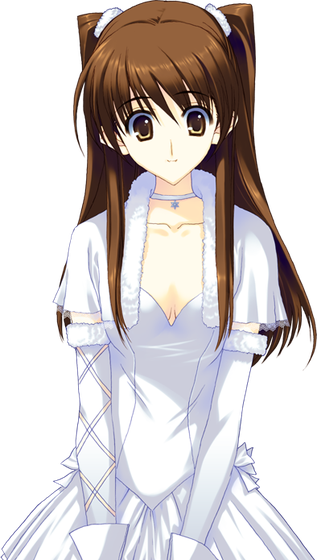
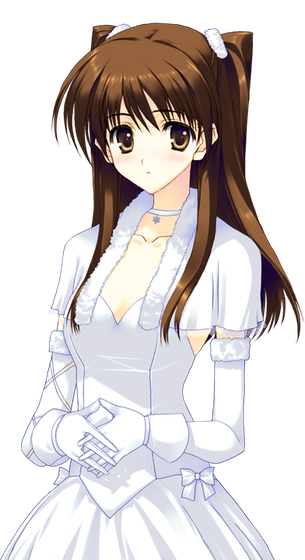
fix sprite head cutoff: soft top fade + intact-head Setsuna variants
Root cause: the game's sprite sheets bleed off the top edge for most
poses (all Kazusa poses; some Setsuna ones), so heads showed a hard
cut line. Fixes:
- keep the original top edge when trimming sprites (no more cropping
  away Setsuna's natural headroom)
- swap Setsuna uniform/dress to pose variants with intact heads
- CSS mask fades the top 26px of sprites so bleeding sprites
  (esp. Kazusa) dissolve softly instead of cutting flat

diff --git a/assets/css/waifu.css b/assets/css/waifu.css
@@ -147,6 +147,10 @@ body:not(.light-mode) .waifu-tips {
   -webkit-user-drag: none;
   user-select: none;
   -webkit-user-select: none;
+  /* Some game sprites bleed off the top edge (esp. Kazusa); fade the
+   * top out softly instead of showing a hard cut line. */
+  -webkit-mask-image: linear-gradient(to bottom, transparent 0, #000 26px);
+  mask-image: linear-gradient(to bottom, transparent 0, #000 26px);
 }
 
 .wa2-chara:hover { transform: scale(1.04); }
